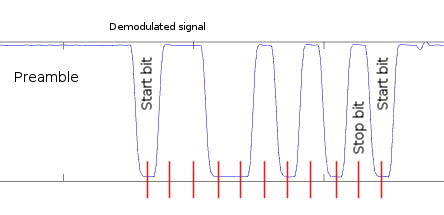
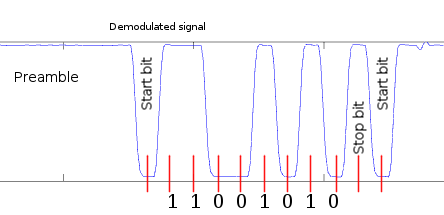
minor change to one figure

diff --git a/matlab/readme.md b/matlab/readme.md
@@ -58,7 +58,7 @@ To understand the decoding process, let's first exlpain how data is encoded by S
 
 Now let's see how we can decode the demodulated signal. The decoder is build as a finite state machine with the states __PREAMBLE__, __START__, __DATA__, __STOP__. Initially it is in the state PREAMBLE. In this state the decoder trys to find the preamble by counting the samples that are larger than a certain threshold. If a preamble was detected, the decoder jumps to the middle of the Start bit and goes into the START state. There the decoder evaluates if the Start bit is set or if it jumped into the START state by mistake. In case the Start bit is set, the decoder jumps ahead for the number of samples per bit. Now the decoder position should be in the middle of the first Data bit and in state DATA. In this position it evaluates the first Data bit and consecutively the following 7 bits. Afterwards, the decoder goes into the state STOP and checks if the Stop bit was set correctly. Following, the decoder checks the Push bit. If the Push bit is set, transmission is over and we go to the PREAMBLE state. Else the next state is DATA, as a missing Push bit is the equivalent of a Start bit and indicates that the sender will continue transmitting data.
 
-In the next picture we see the positions, where the demodulated signal will evaluated by the decoder.
+In the next picture we see the positions (red lines), where the demodulated signal will evaluated by the decoder.
 
 ![decoder](figures/figure_eval_pos.png)
 
